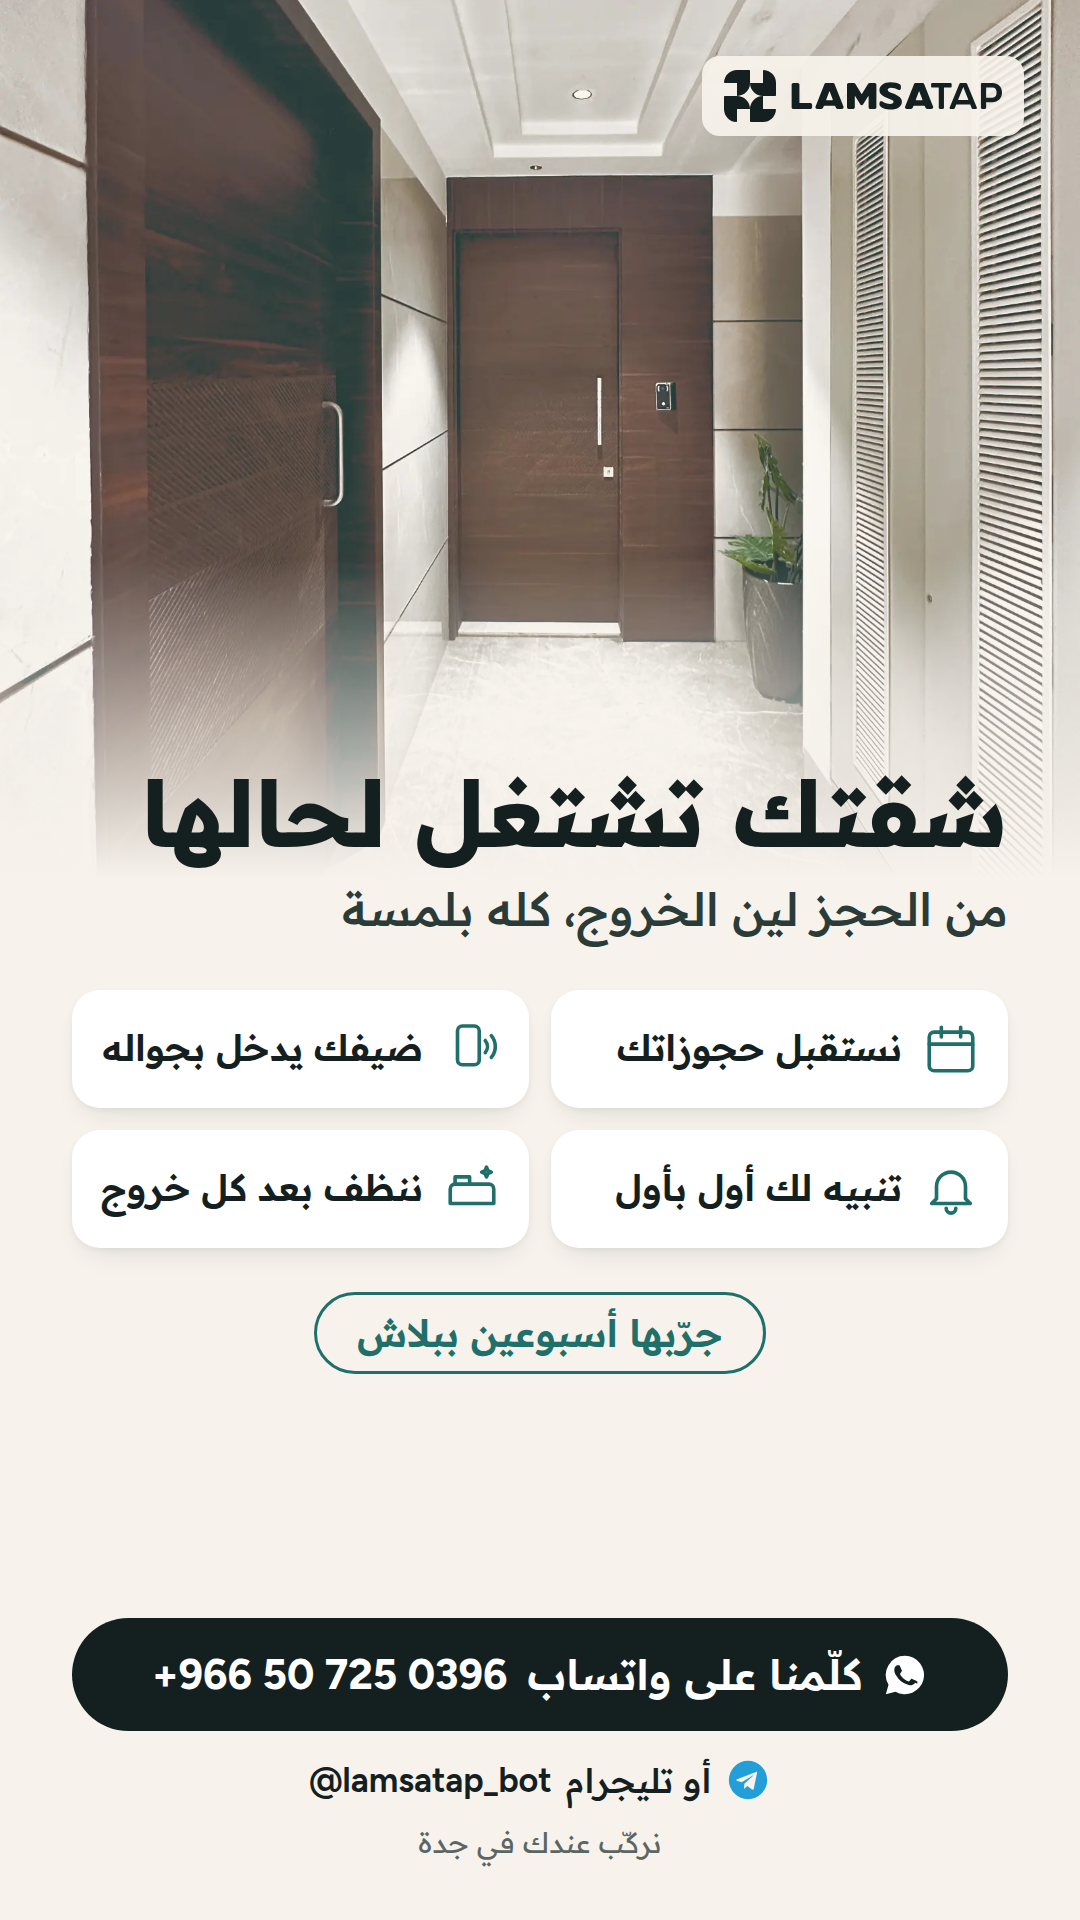
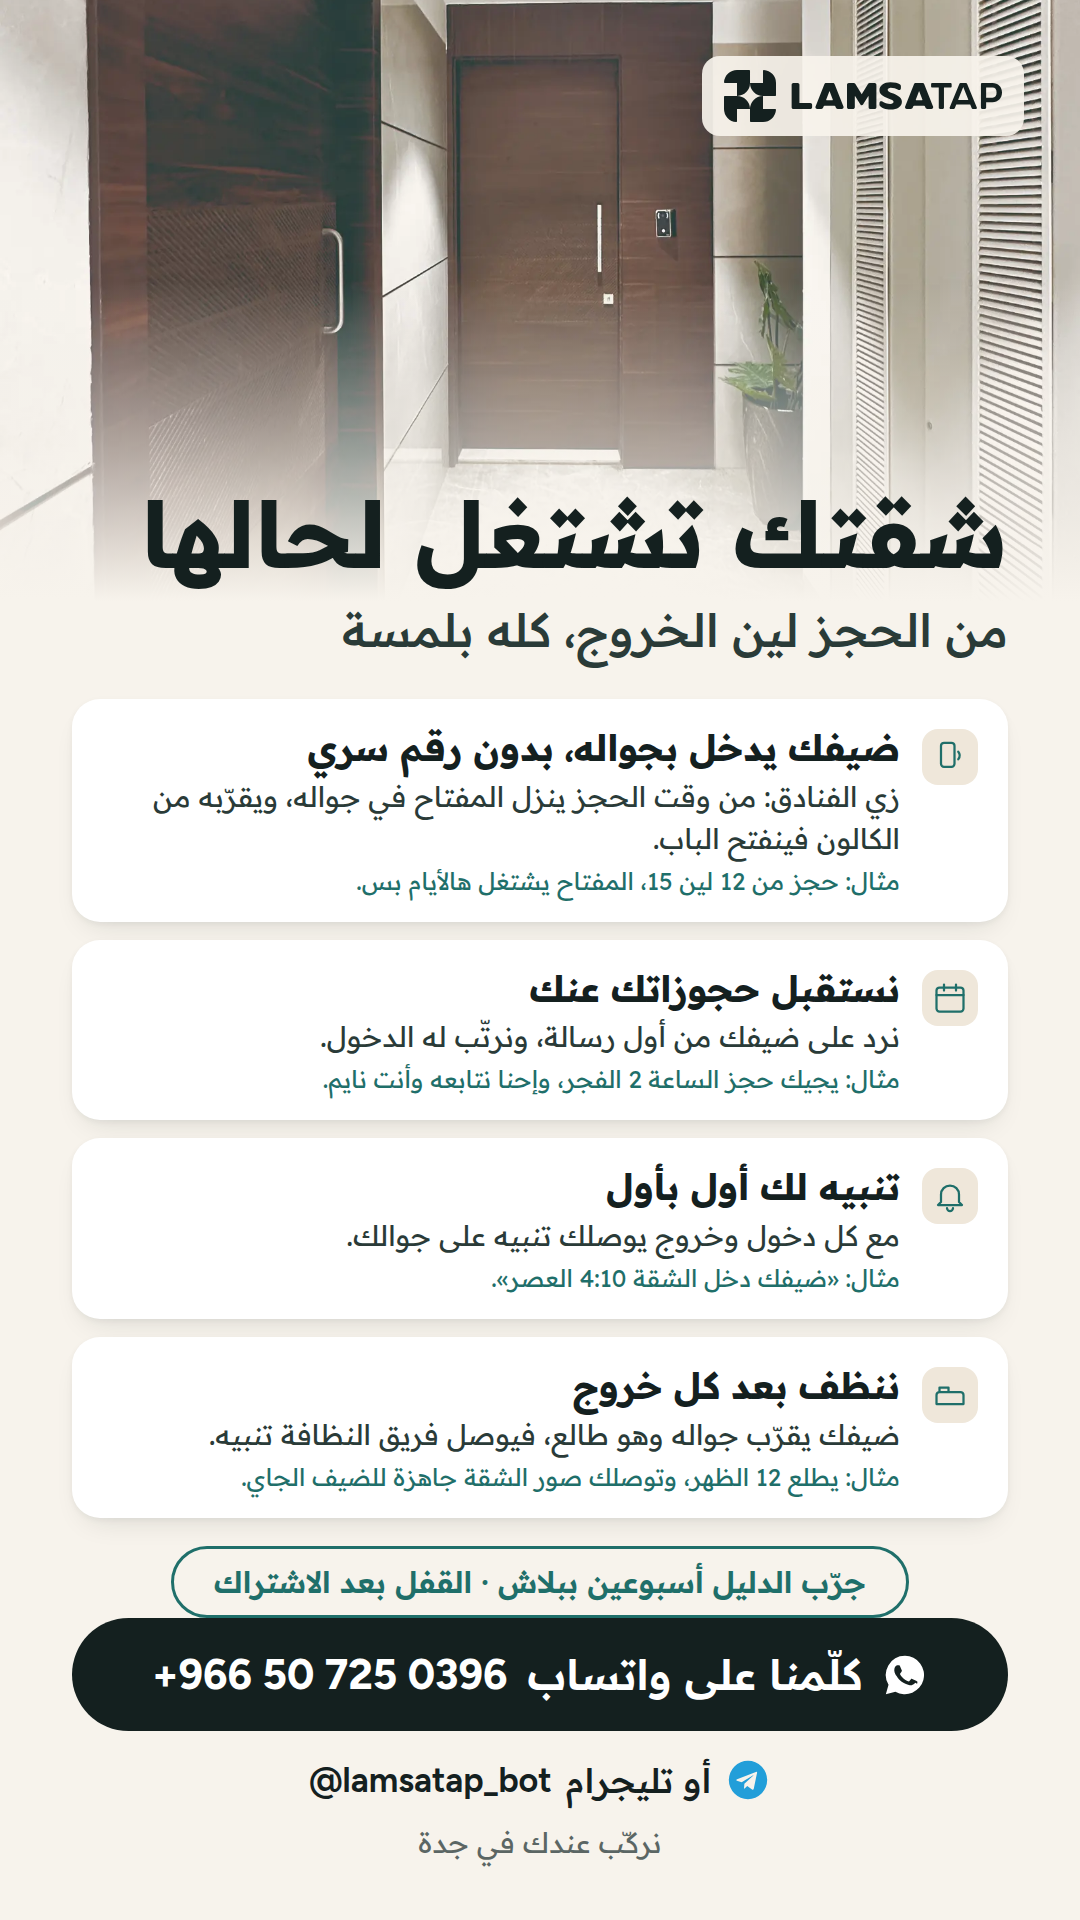
Hosts cover ad: detailed hotel-style key explanation + examples, trial = guide only
Claude-Session: https://claude.ai/code/session_01AAsPNHXLRNQfpkPWcZX4SL

diff --git a/print/hosts-ads/ads.html b/print/hosts-ads/ads.html
@@ -34,6 +34,14 @@ h1{font-family:"Readex";font-weight:700;font-size:92px;line-height:1.15;letter-s
 .c.feat{border:4px solid var(--ink)}
 .c .tag{display:inline-block;color:#fff;margin:0;line-height:1.3;position:absolute;top:-22px;left:34px;background:var(--teal);color:#fff;font-family:"Readex";font-size:26px;font-weight:600;padding:6px 20px;border-radius:999px}
 .ask{text-align:center;font-family:"Readex";font-size:34px;color:var(--muted);margin-top:26px}
+.rowsx{display:flex;flex-direction:column;gap:18px;margin-top:40px}
+.r{background:#fff;border-radius:28px;padding:26px 30px;display:flex;gap:22px;align-items:flex-start;box-shadow:0 2px 6px rgba(20,32,31,.05),0 14px 30px -14px rgba(20,32,31,.14)}
+.r svg{width:56px;height:56px;color:var(--teal);flex:none;background:var(--sand2);border-radius:16px;padding:10px;margin-top:4px}
+.r b{display:block;font-family:"Readex";font-size:36px;font-weight:700;line-height:1.3}
+.r p{font-family:"Readex";font-size:28px;line-height:1.5;color:#2A3B38;margin-top:4px}
+.r small{display:block;font-family:"Readex";font-size:24px;color:var(--teal);margin-top:6px}
+#ad1 .hero{height:620px}
+#ad1 .pill{font-size:30px;margin-top:28px}
 </style></head><body>
 <!-- ad 1: cover -->
 <section class="ad" id="ad1">
@@ -41,13 +49,8 @@ h1{font-family:"Readex";font-weight:700;font-size:92px;line-height:1.15;letter-s
  <div class="body">
   <h1>شقتك تشتغل لحالها</h1>
   <p class="sub">من الحجز لين الخروج، كله بلمسة</p>
-  <div class="grid">
-   <div class="t"><svg viewBox="0 0 24 24" fill="none" stroke="currentColor" stroke-width="1.5" stroke-linecap="round" stroke-linejoin="round"><rect x="3" y="5" width="18" height="16" rx="2"/><path d="M3 10h18M8 3v4m8-4v4"/></svg><b>نستقبل حجوزاتك</b></div>
-   <div class="t"><svg viewBox="0 0 24 24" fill="none" stroke="currentColor" stroke-width="1.5" stroke-linecap="round" stroke-linejoin="round"><rect x="6" y="2.5" width="9" height="16" rx="2"/><path d="M17.5 8.5a4 4 0 0 1 0 5M20 6.5a7 7 0 0 1 0 9"/></svg><b>ضيفك يدخل بجواله</b></div>
-   <div class="t"><svg viewBox="0 0 24 24" fill="none" stroke="currentColor" stroke-width="1.5" stroke-linecap="round" stroke-linejoin="round"><path d="M18 16V11a6 6 0 1 0-12 0v5l-2 2h16z"/><path d="M10 20a2 2 0 0 0 4 0"/></svg><b>تنبيه لك أول بأول</b></div>
-   <div class="t"><svg viewBox="0 0 24 24" fill="none" stroke="currentColor" stroke-width="1.5" stroke-linecap="round" stroke-linejoin="round"><path d="M3 18v-6a2 2 0 0 1 2-2h14a2 2 0 0 1 2 2v6M3 18h18M5 10V7h6v3"/><path d="M18 3l.6 1.4L20 5l-1.4.6L18 7l-.6-1.4L16 5l1.4-.6z"/></svg><b>ننظف بعد كل خروج</b></div>
-  </div>
-  <div class="pill">جرّبها أسبوعين ببلاش</div>
+  <div class="rowsx"><div class="r"><svg viewBox="0 0 24 24" fill="none" stroke="currentColor" stroke-width="1.5" stroke-linecap="round" stroke-linejoin="round"><rect x="6" y="2.5" width="9" height="16" rx="2"/><path d="M17.5 8.5a4 4 0 0 1 0 5"/></svg><div><b>ضيفك يدخل بجواله، بدون رقم سري</b><p>زي الفنادق: من وقت الحجز ينزل المفتاح في جواله، ويقرّبه من الكالون فينفتح الباب.</p><small>مثال: حجز من 12 لين 15، المفتاح يشتغل هالأيام بس.</small></div></div><div class="r"><svg viewBox="0 0 24 24" fill="none" stroke="currentColor" stroke-width="1.5" stroke-linecap="round" stroke-linejoin="round"><rect x="3" y="5" width="18" height="16" rx="2"/><path d="M3 10h18M8 3v4m8-4v4"/></svg><div><b>نستقبل حجوزاتك عنك</b><p>نرد على ضيفك من أول رسالة، ونرتّب له الدخول.</p><small>مثال: يجيك حجز الساعة 2 الفجر، وإحنا نتابعه وأنت نايم.</small></div></div><div class="r"><svg viewBox="0 0 24 24" fill="none" stroke="currentColor" stroke-width="1.5" stroke-linecap="round" stroke-linejoin="round"><path d="M18 16V11a6 6 0 1 0-12 0v5l-2 2h16z"/><path d="M10 20a2 2 0 0 0 4 0"/></svg><div><b>تنبيه لك أول بأول</b><p>مع كل دخول وخروج يوصلك تنبيه على جوالك.</p><small>مثال: «ضيفك دخل الشقة 4:10 العصر».</small></div></div><div class="r"><svg viewBox="0 0 24 24" fill="none" stroke="currentColor" stroke-width="1.5" stroke-linecap="round" stroke-linejoin="round"><path d="M3 18v-6a2 2 0 0 1 2-2h14a2 2 0 0 1 2 2v6M3 18h18M5 10V7h6v3"/></svg><div><b>ننظف بعد كل خروج</b><p>ضيفك يقرّب جواله وهو طالع، فيوصل فريق النظافة تنبيه.</p><small>مثال: يطلع 12 الظهر، وتوصلك صور الشقة جاهزة للضيف الجاي.</small></div></div></div>
+  <div class="pill">جرّب الدليل أسبوعين ببلاش · القفل بعد الاشتراك</div>
   <div class="cta"><svg class="ico" viewBox="0 0 24 24" fill="currentColor"><path d="M12 2a10 10 0 0 0-8.6 15.1L2 22l5-1.3A10 10 0 1 0 12 2zm5.3 14.1c-.2.6-1.3 1.2-1.8 1.2-.5.1-1 .2-3.3-.7-2.8-1.1-4.6-4-4.7-4.2-.1-.2-1.1-1.5-1.1-2.9s.7-2.1 1-2.3c.3-.3.6-.3.8-.3h.6c.2 0 .4 0 .6.5l.9 2.1c.1.2.1.4 0 .6l-.3.5-.4.5c-.1.2-.3.3-.1.6.2.3.8 1.3 1.7 2.1 1.2 1 2.1 1.4 2.4 1.5.3.1.5.1.6-.1l.9-1c.2-.3.4-.2.7-.1l2 .9c.3.2.5.2.6.4.1.1.1.7-.1 1.2z"/></svg>كلّمنا على واتساب <span class="n">+966 50 725 0396</span></div>
   <div class="tg"><svg class="ico" viewBox="0 0 24 24" fill="#229ED9"><path d="M12 2a10 10 0 1 0 0 20 10 10 0 0 0 0-20zm4.6 6.9-1.6 7.6c-.1.5-.4.7-.9.4l-2.5-1.8-1.2 1.2c-.1.1-.3.2-.5.2l.2-2.6 4.7-4.2c.2-.2 0-.3-.3-.1l-5.8 3.6-2.5-.8c-.5-.2-.5-.5.1-.8l9.8-3.8c.5-.2.9.1.5 1.1z"/></svg>أو تليجرام <span class="n">@lamsatap_bot</span></div>
   <p class="foot">نركّب عندك في جدة</p>
